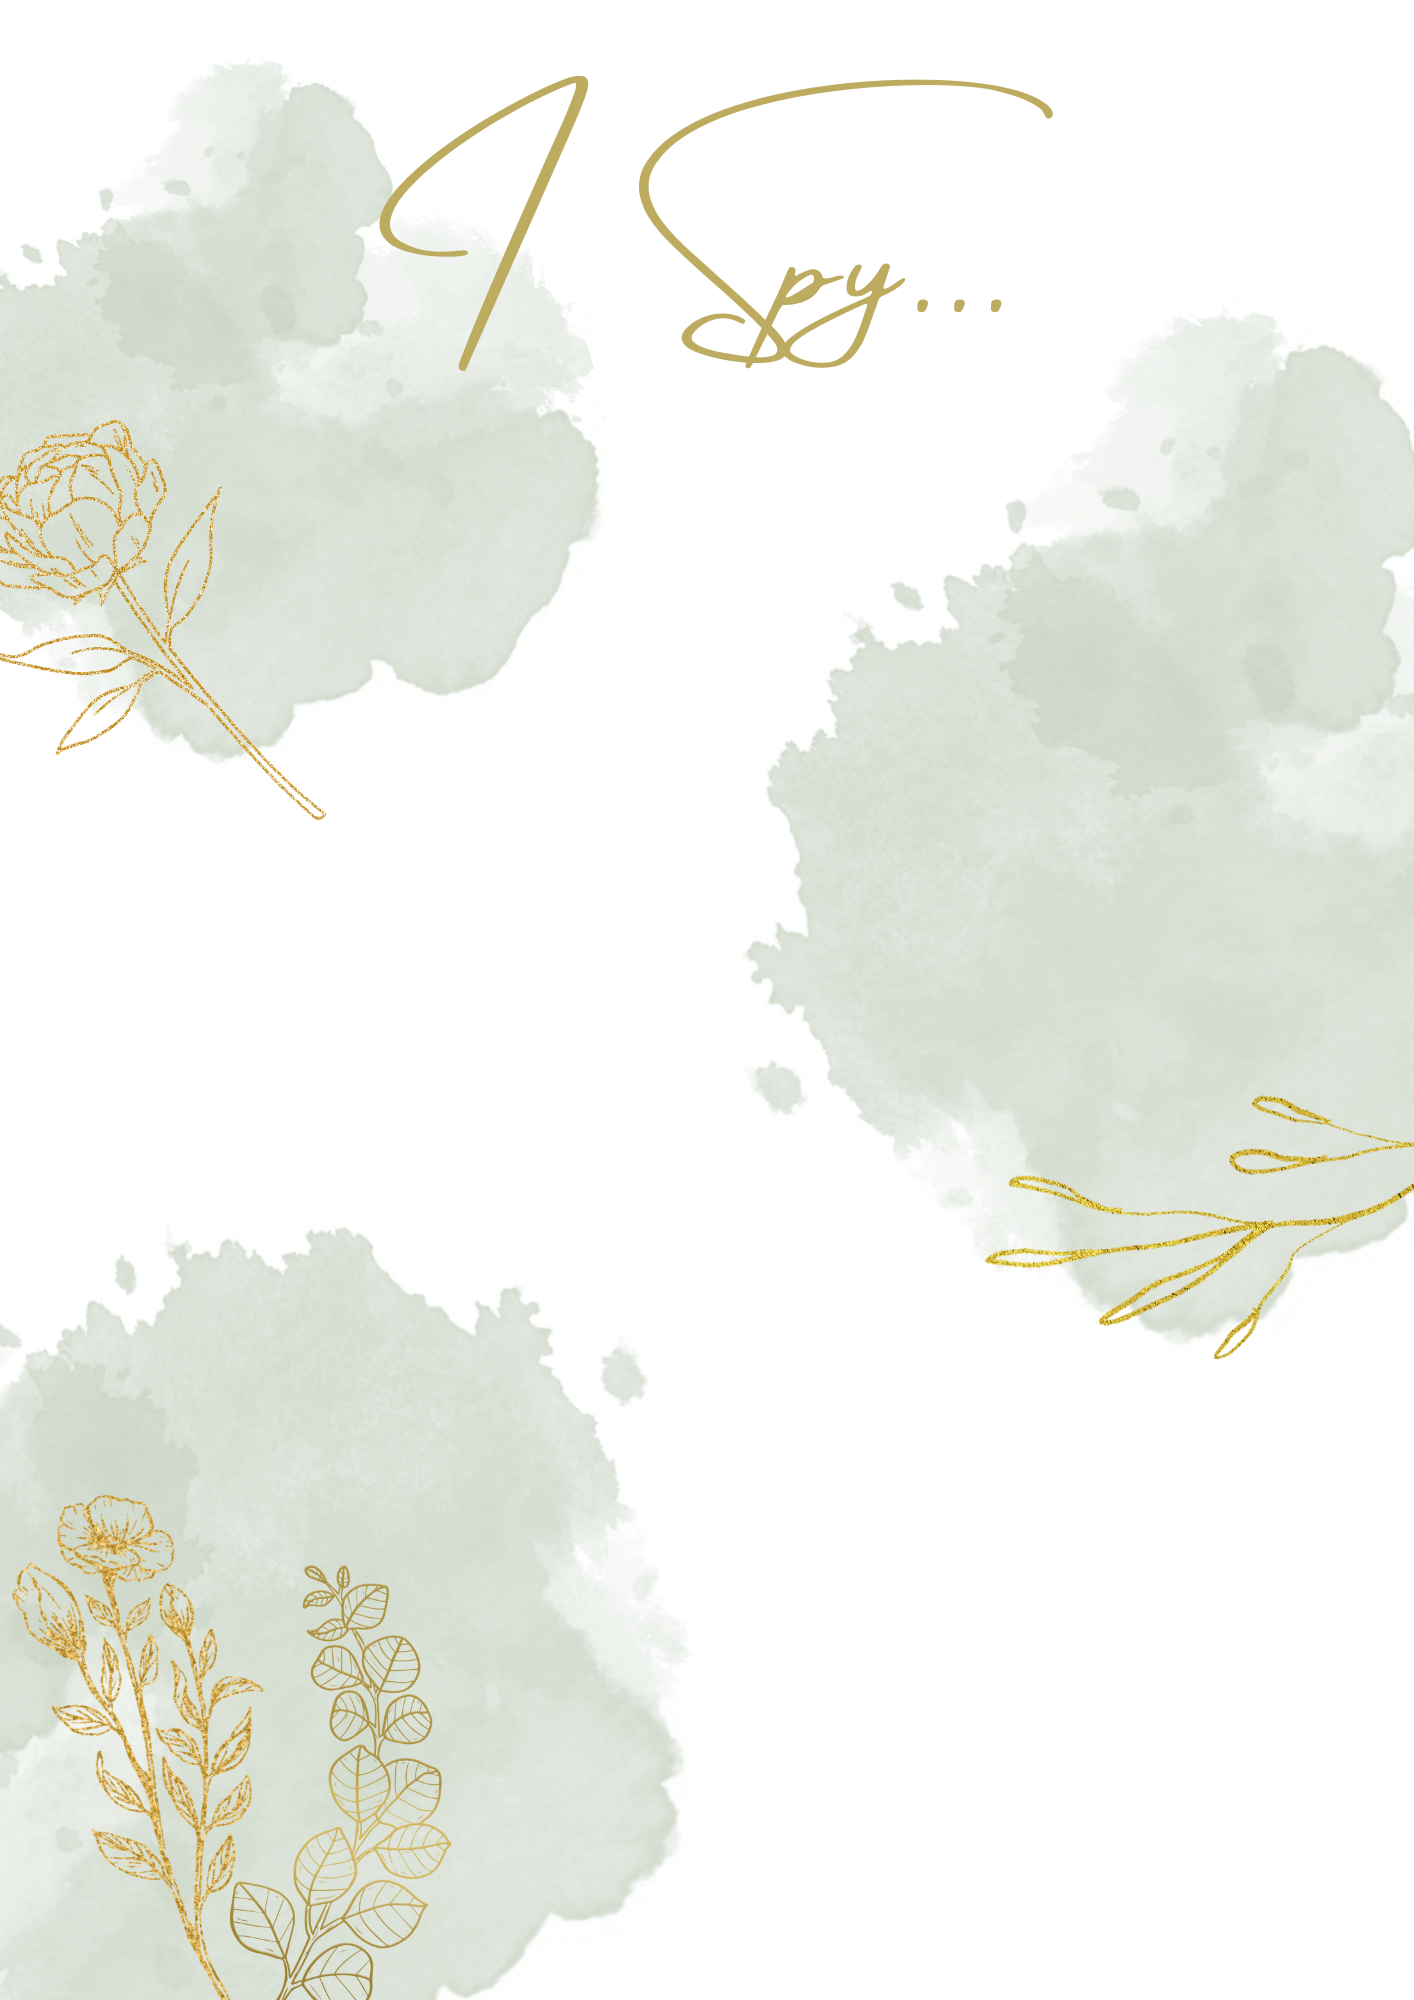
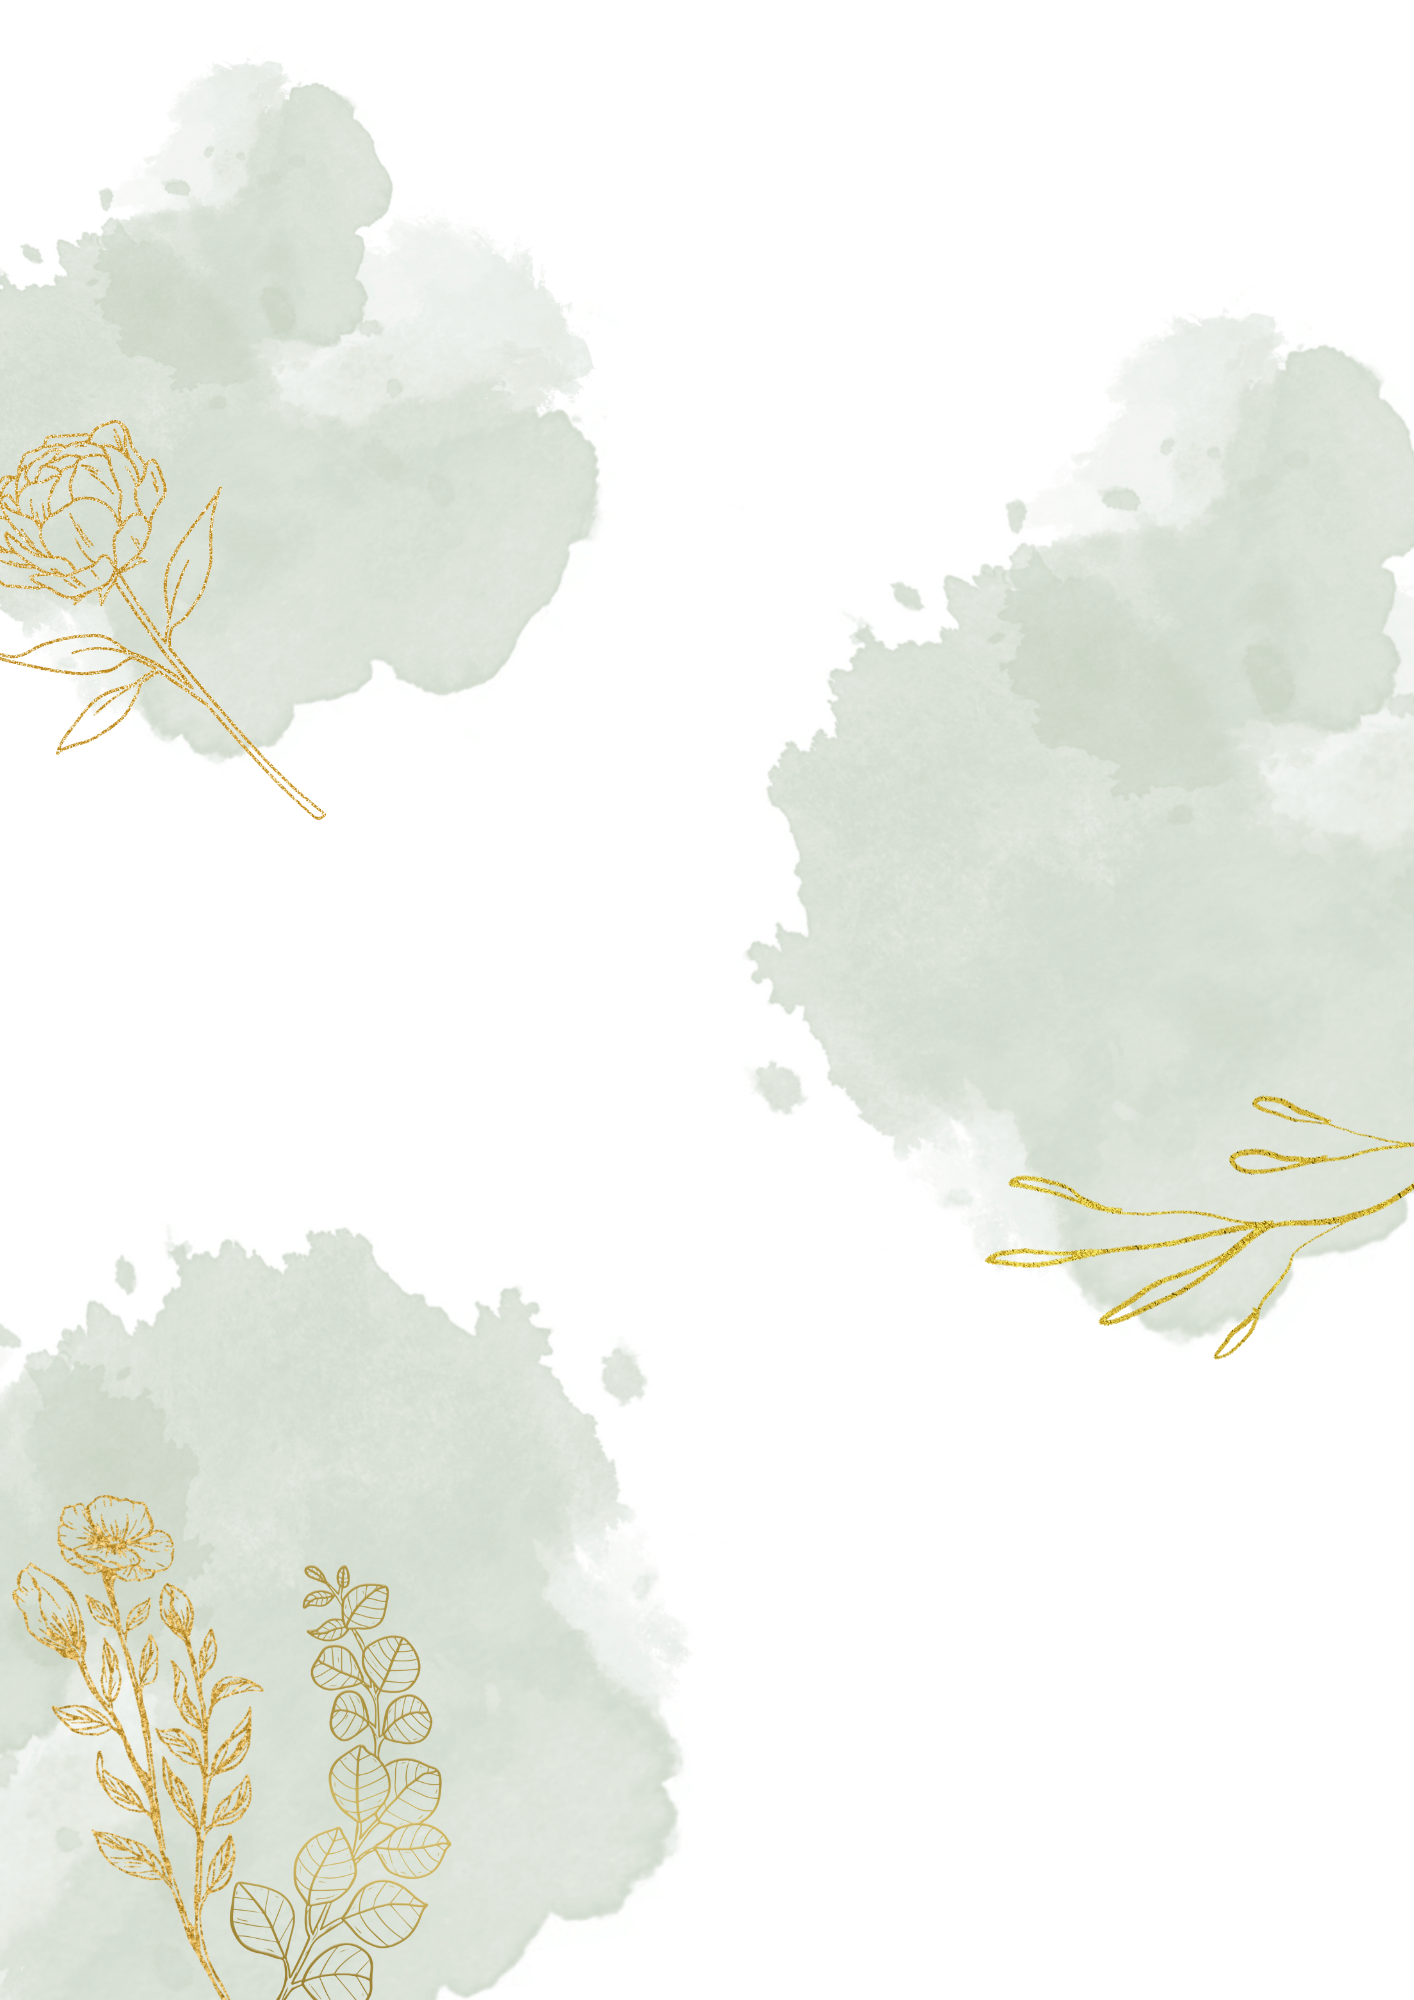
updated bg no words

diff --git a/index.html b/index.html
@@ -19,7 +19,7 @@
     <p id="error" style="color: red; margin-top: 1rem;"></p>
   </div>
   
-  <div id="mainApp" style="display: none; padding-top: 150px;">
+  <div id="mainApp">
     <div id="promptsContainer"></div>
     <div id = "galleryLinkContainer">
       <a class="gallery-link" href="https://drive.google.com/drive/u/1/folders/1TQnuVAn82nwzeSxaPk_JRwai2g4E4Cup" target="_blank">
